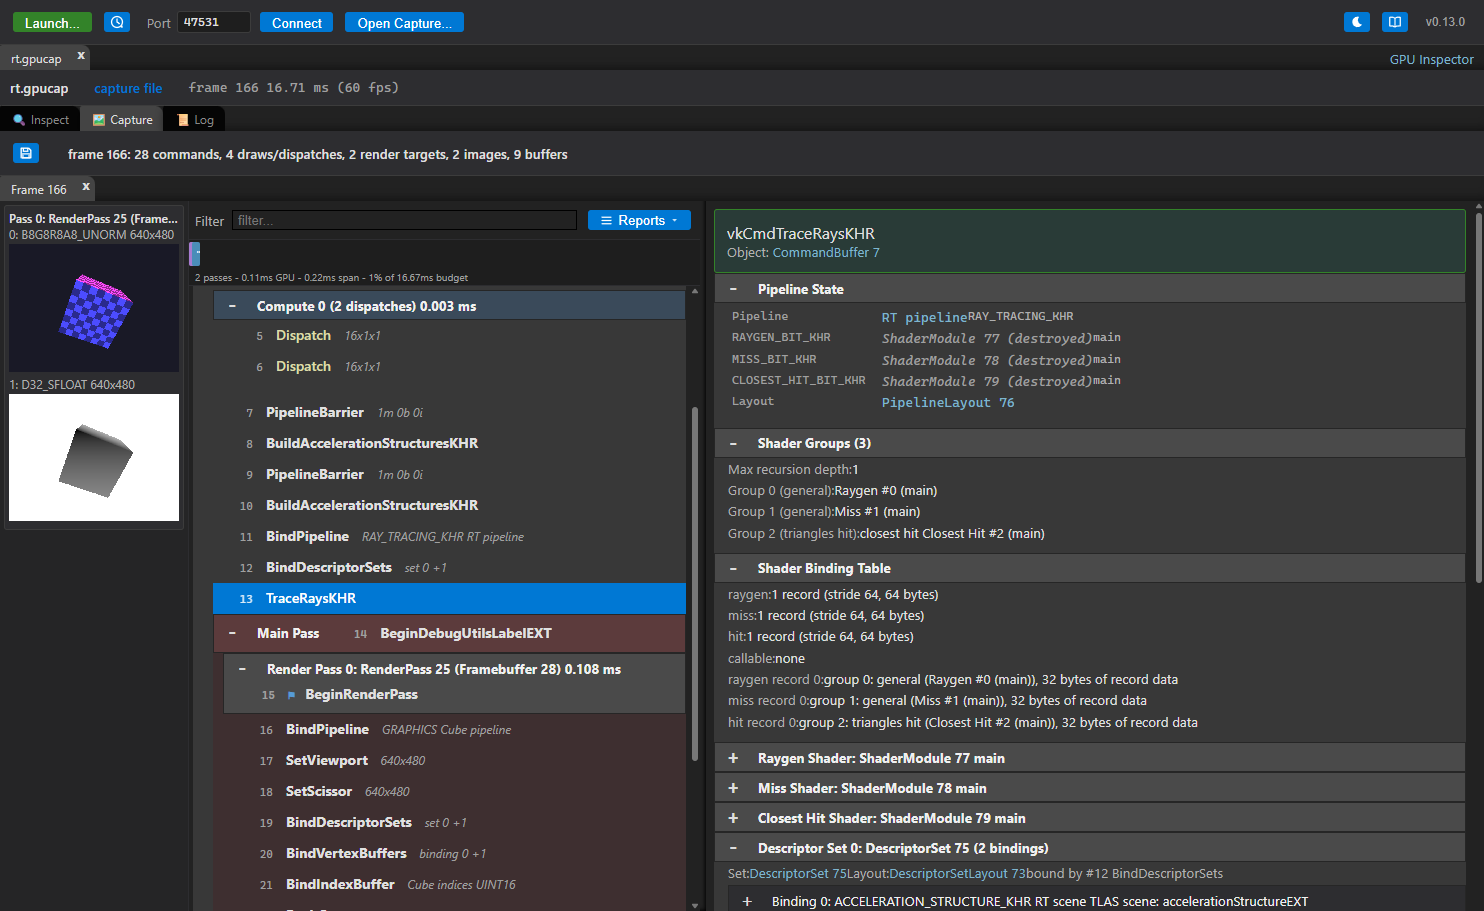
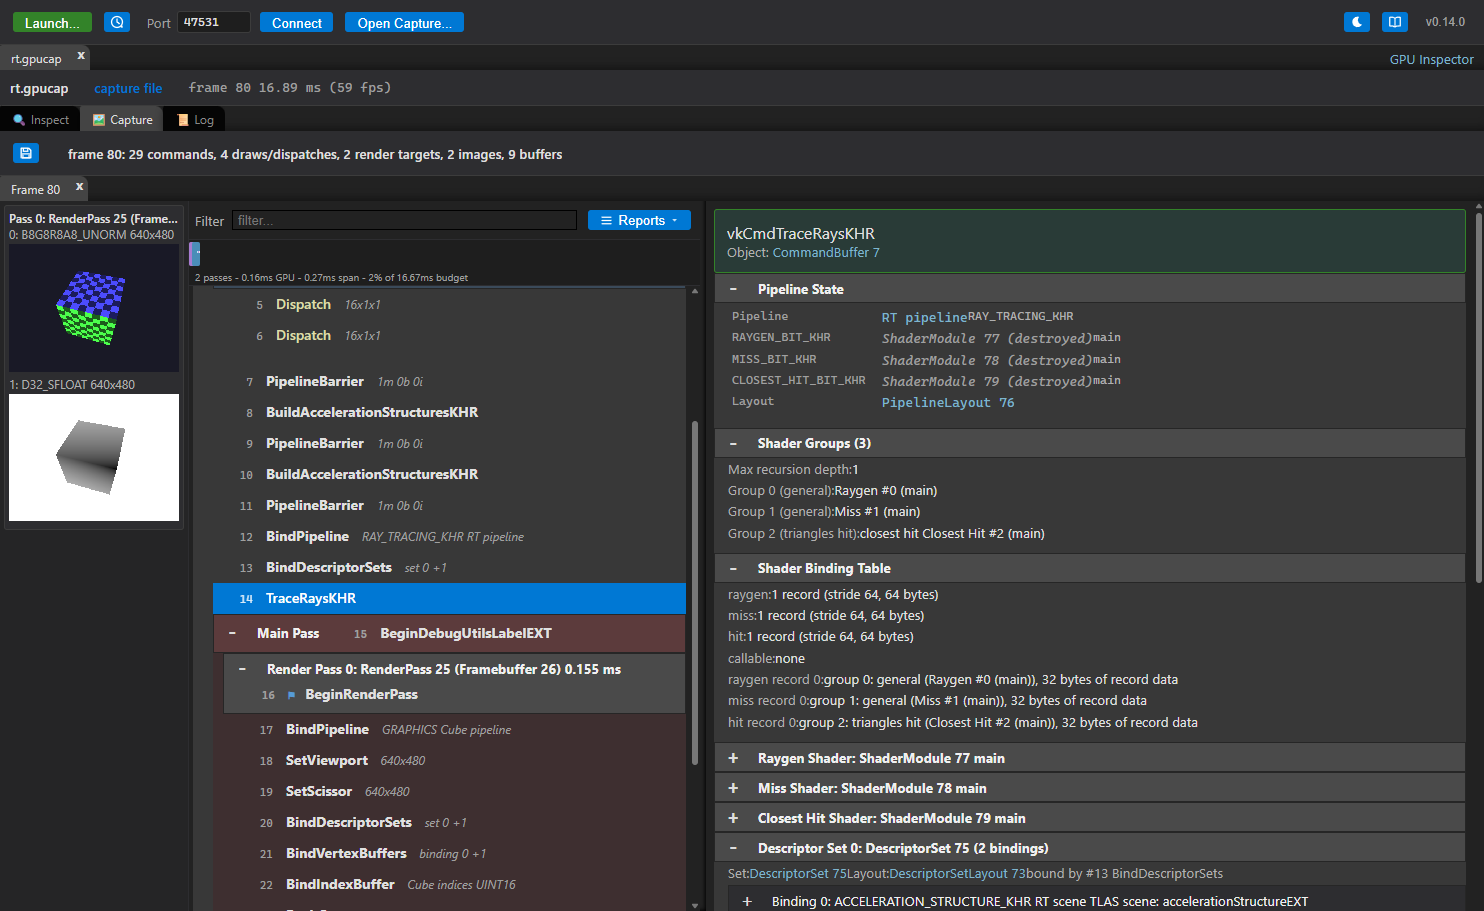
Order the test app's trace after its build

diff --git a/test/triangle/main.cpp b/test/triangle/main.cpp
@@ -1280,6 +1280,15 @@ struct App {
         VkAccelerationStructureBuildRangeInfoKHR range{1, 0, 0, 0};
         const VkAccelerationStructureBuildRangeInfoKHR* ranges = &range;
         rt.build(cb, 1, &info, &ranges);
+        // The trace below reads the structure this build writes, and nothing else orders them.
+        // Without this the rays are traced against whatever the top level held when the trace
+        // reached it, which on this driver happened to be the finished build often enough to look
+        // correct — until a replay ran the same commands with different timing and every ray missed.
+        VkMemoryBarrier built{VK_STRUCTURE_TYPE_MEMORY_BARRIER};
+        built.srcAccessMask = VK_ACCESS_ACCELERATION_STRUCTURE_WRITE_BIT_KHR;
+        built.dstAccessMask = VK_ACCESS_ACCELERATION_STRUCTURE_READ_BIT_KHR;
+        vkCmdPipelineBarrier(cb, VK_PIPELINE_STAGE_ACCELERATION_STRUCTURE_BUILD_BIT_KHR,
+                             VK_PIPELINE_STAGE_RAY_TRACING_SHADER_BIT_KHR, 0, 1, &built, 0, nullptr, 0, nullptr);
         vkCmdBindPipeline(cb, VK_PIPELINE_BIND_POINT_RAY_TRACING_KHR, rt.pipeline);
         vkCmdBindDescriptorSets(cb, VK_PIPELINE_BIND_POINT_RAY_TRACING_KHR, rt.layout, 0, 1, &rt.set, 0, nullptr);
         rt.trace(cb, &rt.raygen, &rt.miss, &rt.hit, &rt.callable, 256, 256, 1);

diff --git a/tools/doc_screenshots.py b/tools/doc_screenshots.py
@@ -120,8 +120,8 @@ SHOTS = [
     # level sorts first.
     Shot("acceleration-structures", ["--debug-open={capture}", "--debug-select=VkAccelerationStructureKHR:TLAS"],
          delay_ms=12000, capture="rt.gpucap"),
-    # The shader binding table of a trace (rt.gpucap, command 13 is the vkCmdTraceRaysKHR).
-    Shot("binding-table", ["--debug-open={capture}", "--debug-command=13", "--debug-expand=Shader Binding Table"],
+    # The shader binding table of a trace (rt.gpucap, command 14 is the vkCmdTraceRaysKHR).
+    Shot("binding-table", ["--debug-open={capture}", "--debug-command=14", "--debug-expand=Shader Binding Table"],
          delay_ms=12000, capture="rt.gpucap"),
     # The launch dialog, in its desktop and Android forms.
     Shot("launch-dialog", ["--debug-launch-dialog"], delay_ms=5000, crop="dialog"),

diff --git a/TODO.md b/TODO.md
@@ -352,38 +352,23 @@ application with injected state. Route (a) is the general one and is the prerequ
       because the bottom level is unbuilt in the replay. Checked for false positives on the
       triangle and Unity captures, which have no storage read-backs and are unchanged.
 - [ ] Ray tracing, the rest:
-  - **A replayed trace still finds no geometry**: every ray misses (or every hit runs the miss
-    shader, which looks the same), so exactly the triangle's 12.5% of `test/triangle
-    --ray-tracing`'s traced image differs. Three causes were found and fixed — the build's
-    geometry contents were never uploaded, instance references were left as the captured
-    addresses, and the primitive count driving the rewrite was read after the loop that needed
-    it — and the symptom did not move, so at least one more remains.
-
-    What the capture holds is correct, read straight out of the file: the vertex payload is a
-    real triangle (-0.5,-0.5,0 / 0.5,-0.5,0 / 0,0.5,0), the instance is the identity with mask
-    0xff and reference 276299776, and the bottom level (object 60) recorded exactly that address,
-    so the reference names it and nothing else. The frame is: two dispatches, a barrier, the
-    bottom level's build, an acceleration-structure barrier, the top level's build, then the
-    trace.
-
-    Ruled out on the replay side, each checked rather than assumed: the geometry contents are
-    uploaded; the instance reference is remapped to this process's bottom level (276299776 ->
-    195624960); the bottom level is built before the top one and the app's barrier between them
-    is replayed; the descriptor write names the same top level the build wrote; the primitive
-    counts reach `GetAccelerationStructureBuildSizesKHR` as 1; every binding table record matched
-    a captured group handle and was rewritten (an unmatched one is reported and none was); the
-    patched instance upload runs on its own submit that waits idle, so it precedes the frame; and
-    validation is silent with zero problems reported.
-
-    So the recorded stream looks right and the fault is in what the GPU actually does with it.
-    The cheapest way to split the remaining space is to read a structure back after the replay:
-    if the bottom level's backing buffer is empty the build did not run, and if it holds data the
-    fault is downstream in the top level or the trace. Two candidates that a static read cannot
-    settle: the two builds are recorded as separate calls and each allocates its scratch from
-    offset 0 of one shared buffer, so a second `EnsureScratch` that grows the buffer would free
-    memory the first build's recorded address still points at; and the pipeline's
-    `maxPipelineRayRecursionDepth` is worth confirming, since a replayed 0 would make the trace do
-    nothing without validation complaining.
+  - [x] **A replayed trace found no geometry** — solved, and the fault was not in the replay.
+    `test/triangle --ray-tracing` never put a barrier between the top level's build and the
+    trace that reads it. On this driver the race resolved in the application's favour often
+    enough that the frame looked right, so nothing showed it until the replay ran the same
+    commands with different timing and every ray missed. With the barrier the traced image is
+    identical to the capture's. Synchronization validation does not report this hazard: with it
+    on, the application names only a pre-existing depth-attachment transition and says nothing
+    about the acceleration structure or the trace. Three real defects were fixed along the way
+    (the build's geometry contents were never uploaded, instance references were left as the
+    captured addresses, and the primitive count driving the rewrite was read after the loop that
+    needed it), but none of them was the one that mattered.
+  - A replay's scratch is one buffer grown as builds need it, and each
+    `vkCmdBuildAccelerationStructuresKHR` allocates from offset 0 of it. A later build that needs
+    more frees the buffer an earlier recorded build's scratch address still points at. Not seen
+    on any capture here — the addresses happened to come back the same — but a frame whose builds
+    grow would replay against freed memory. The scratch wants sizing across the whole frame
+    before any of it is recorded, rather than per call.
   - A bottom level built before the capture cannot be rebuilt by the replay, so its rays miss
     (docs/REPLAY.md). Reading the structure back with `vkCmdCopyAccelerationStructureToMemoryKHR`
     at capture time is the only way to carry one that was never built while watching.

diff --git a/docs/REPLAY.md b/docs/REPLAY.md
@@ -560,7 +560,7 @@ These cases differ for known reasons:
    ranges again, but a buffer the frame wrote outside those ranges (a compute shader's output, a
    `vkCmdUpdateBuffer` target) keeps what the last frame left there.
 
-Ray tracing replays as far as the build. Pipelines and acceleration structures are made, and
+Ray tracing replays, builds and traces alike. Pipelines and acceleration structures are made, and
 `vkCmdBuildAccelerationStructuresKHR` is issued with its addresses remapped: a build names the
 geometry it reads by device address, and an address from the captured process means nothing here,
 so the replay uses the buffer and offset the layer recorded for each one to find its own buffer and
@@ -583,9 +583,16 @@ no pass. Without that, a trace that runs and a trace that produces the wrong pix
 
 A traced image will differ when the bottom level it traces against was built *before* the capture
 began, which is the usual thing: an engine builds its bottom levels once at load. The replay
-creates the structure but has nothing to build it from, so the rays miss. On `test/triangle
---ray-tracing` that is exactly 12.5% of the traced image — the triangle's share of it. A capture
-that holds the bottom level's own build replays it and the rays hit.
+creates the structure but has nothing to build it from, so the rays miss. A capture that holds the
+bottom level's own build — which `test/triangle --ray-tracing` makes, rebuilding both levels every
+frame as an engine with deforming geometry does — replays it, and the traced image comes back
+identical.
+
+That comparison earns its keep. The first thing it found was not a fault in the replay at all: the
+test application had no barrier between the top level's build and the trace that reads it, and on
+this driver the race resolved in its favour often enough that the frame looked right every time it
+was run. Synchronization validation does not report that hazard. Two runs of identical commands
+disagreeing does, which is what a replay is for.
 
 Not replayed yet: `vkCmdTraceRaysIndirect*`, the NV ray tracing commands, acceleration structure
 copies, queries whose results the frame reads back, and Metal captures. Shader objects are made one at a time from their payloads, so a linked set replays

diff --git a/CHANGELOG.md b/CHANGELOG.md
@@ -1,5 +1,22 @@
 ## Unreleased
 
+### Fixed
+- A replayed ray tracing frame traced against nothing, and the cause was a missing barrier in
+  `test/triangle --ray-tracing` rather than anything in the replay. The trace reads the top level
+  the build before it writes, and the application ordered them with nothing at all; on this driver
+  the race resolved in its favour often enough that the frame looked right, so the bug sat there
+  unnoticed until a replay ran the same commands with different timing and every ray missed. With
+  the barrier the replay's traced image is identical to the capture's, and the whole frame replays
+  with no problems and no validation messages.
+
+  Worth saying plainly, because it is what the feature is for: **synchronization validation does not
+  report this hazard**. Running the application with it on names only a pre-existing depth-attachment
+  transition and says nothing about the acceleration structure or the trace. What found it was the
+  replay comparing what the frame *computed* into a storage image against what the capture recorded
+  — two runs of identical commands disagreeing is a synchronisation bug by definition, whatever the
+  validation layers make of it. The three defects fixed alongside it in v0.14.0 were all real, but
+  none of them was the one that mattered.
+
 ### Added
 - Descriptor buffers are read (`VK_EXT_descriptor_buffer`, `src/vulkan/src/descriptor_buffer.h`).
   A descriptor buffer replaces descriptor sets with plain memory: the application asks the driver
